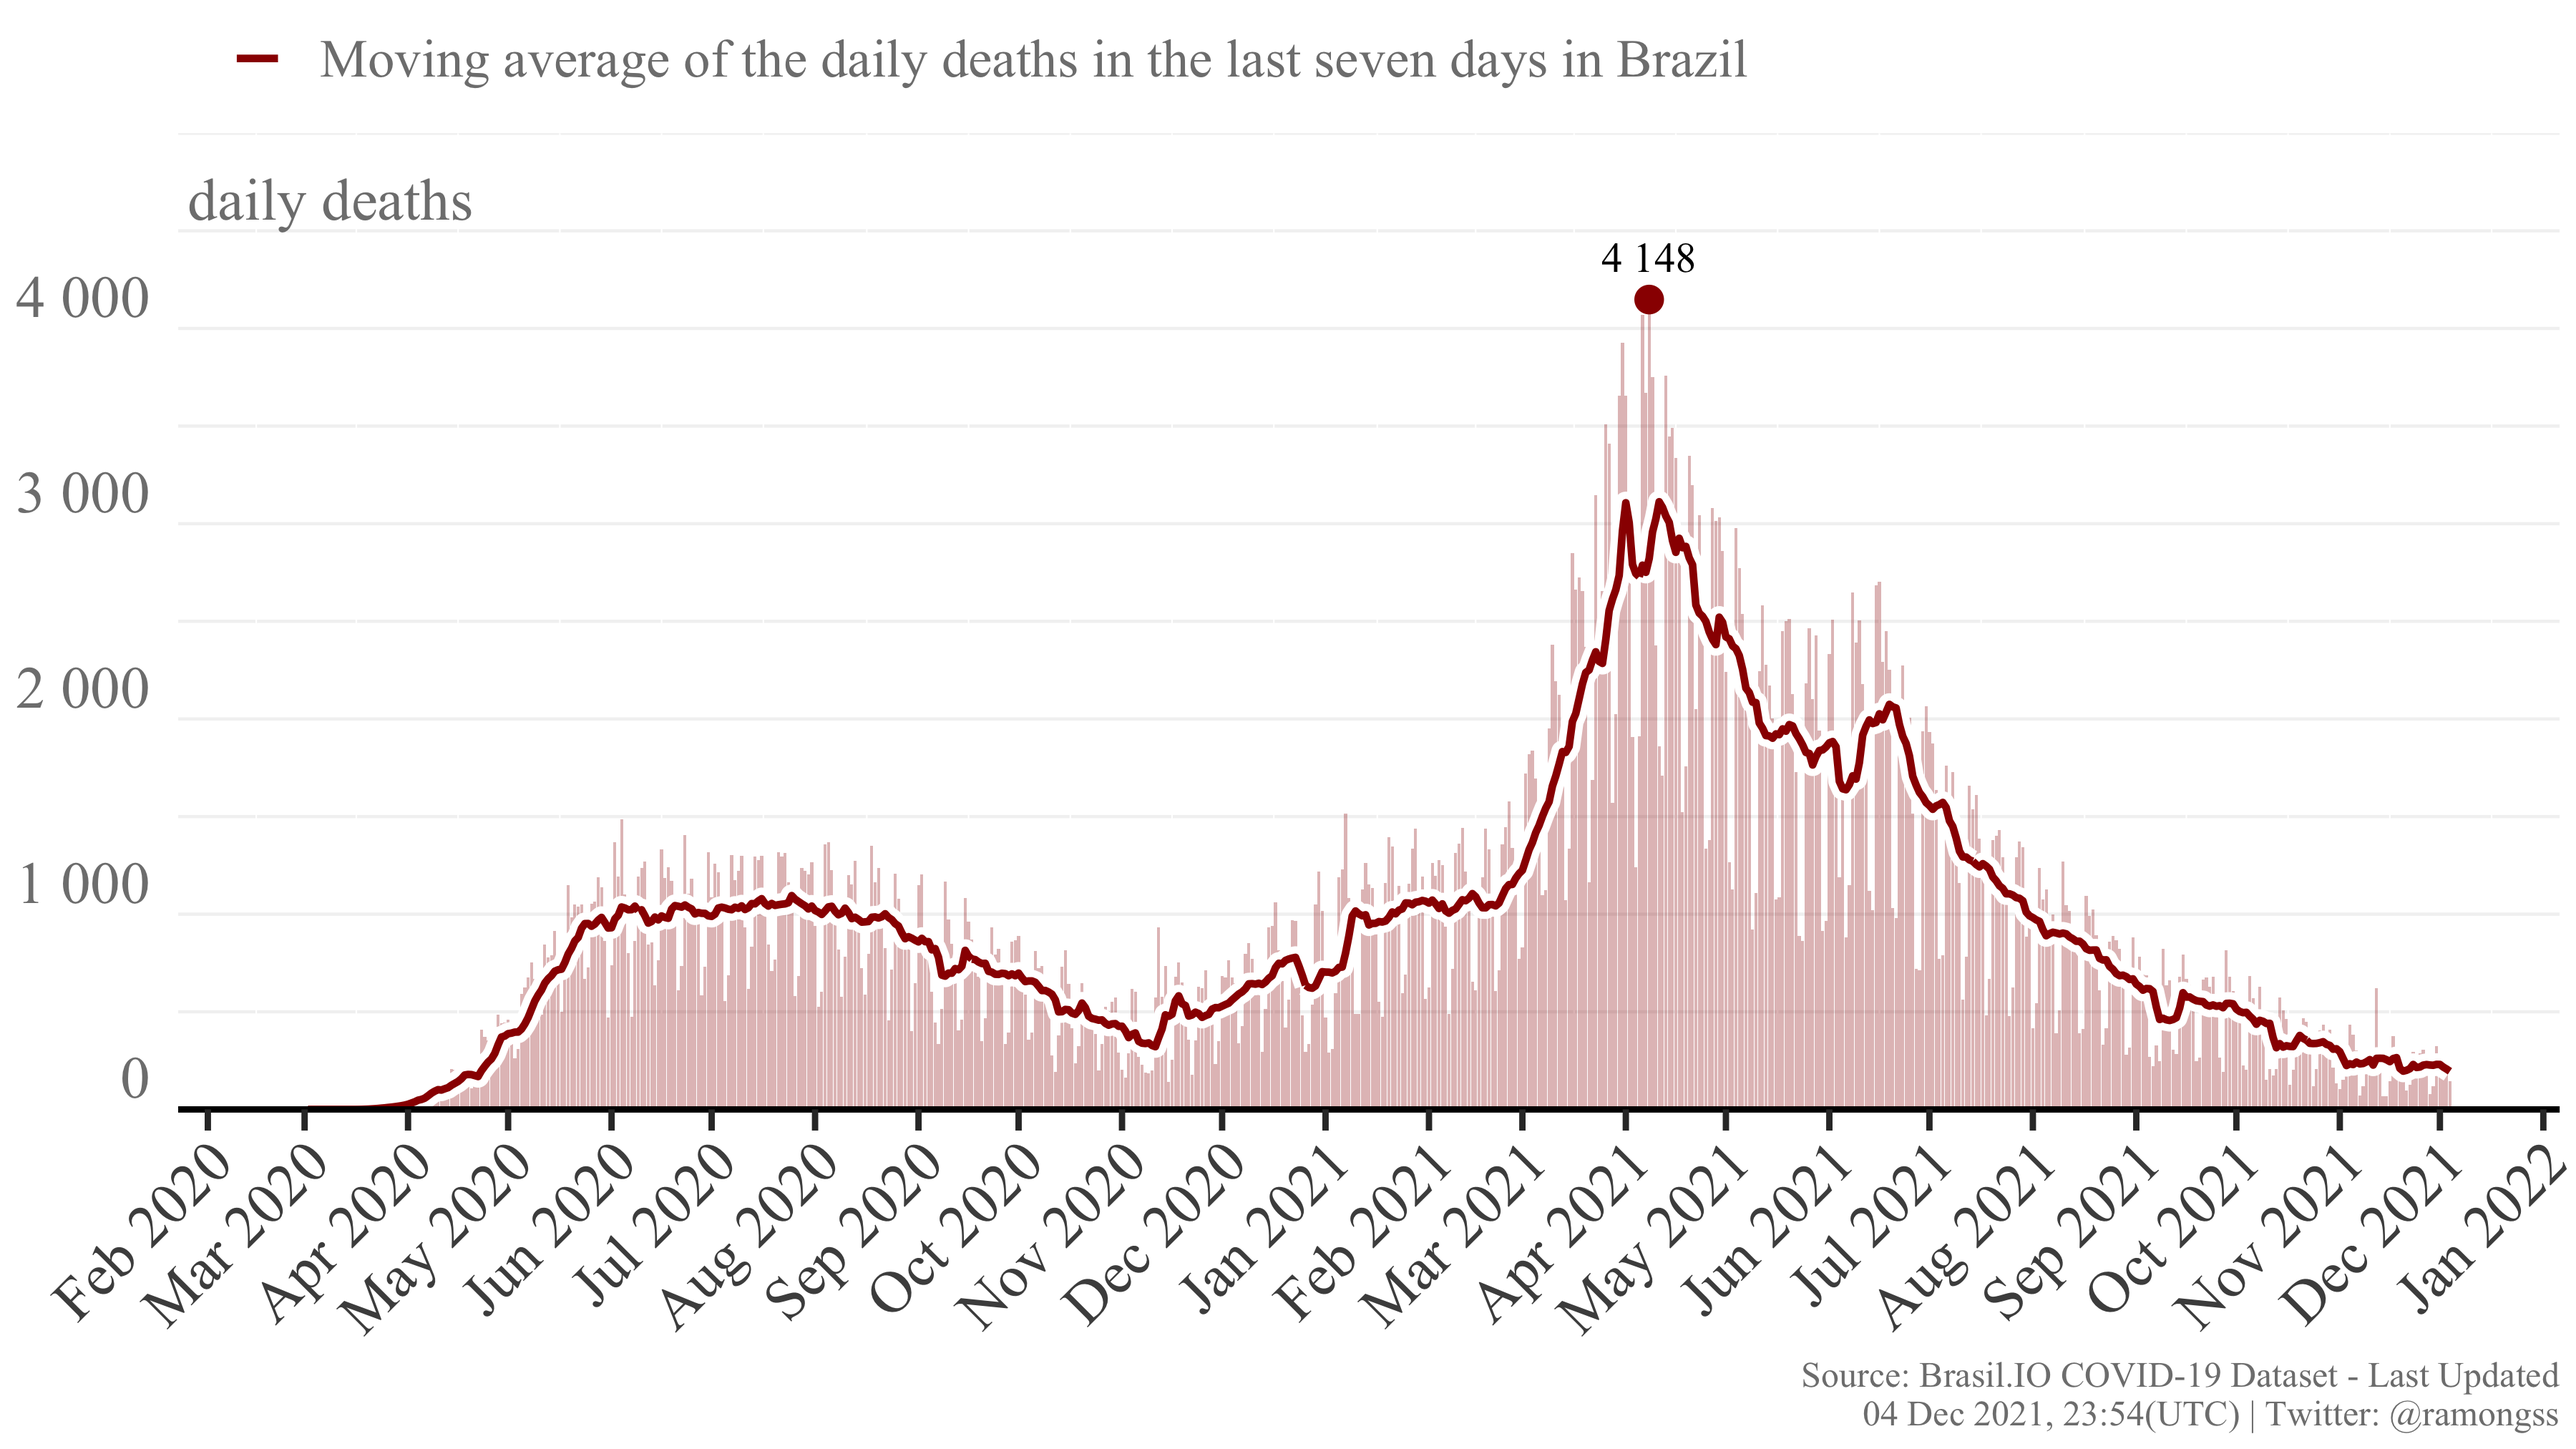
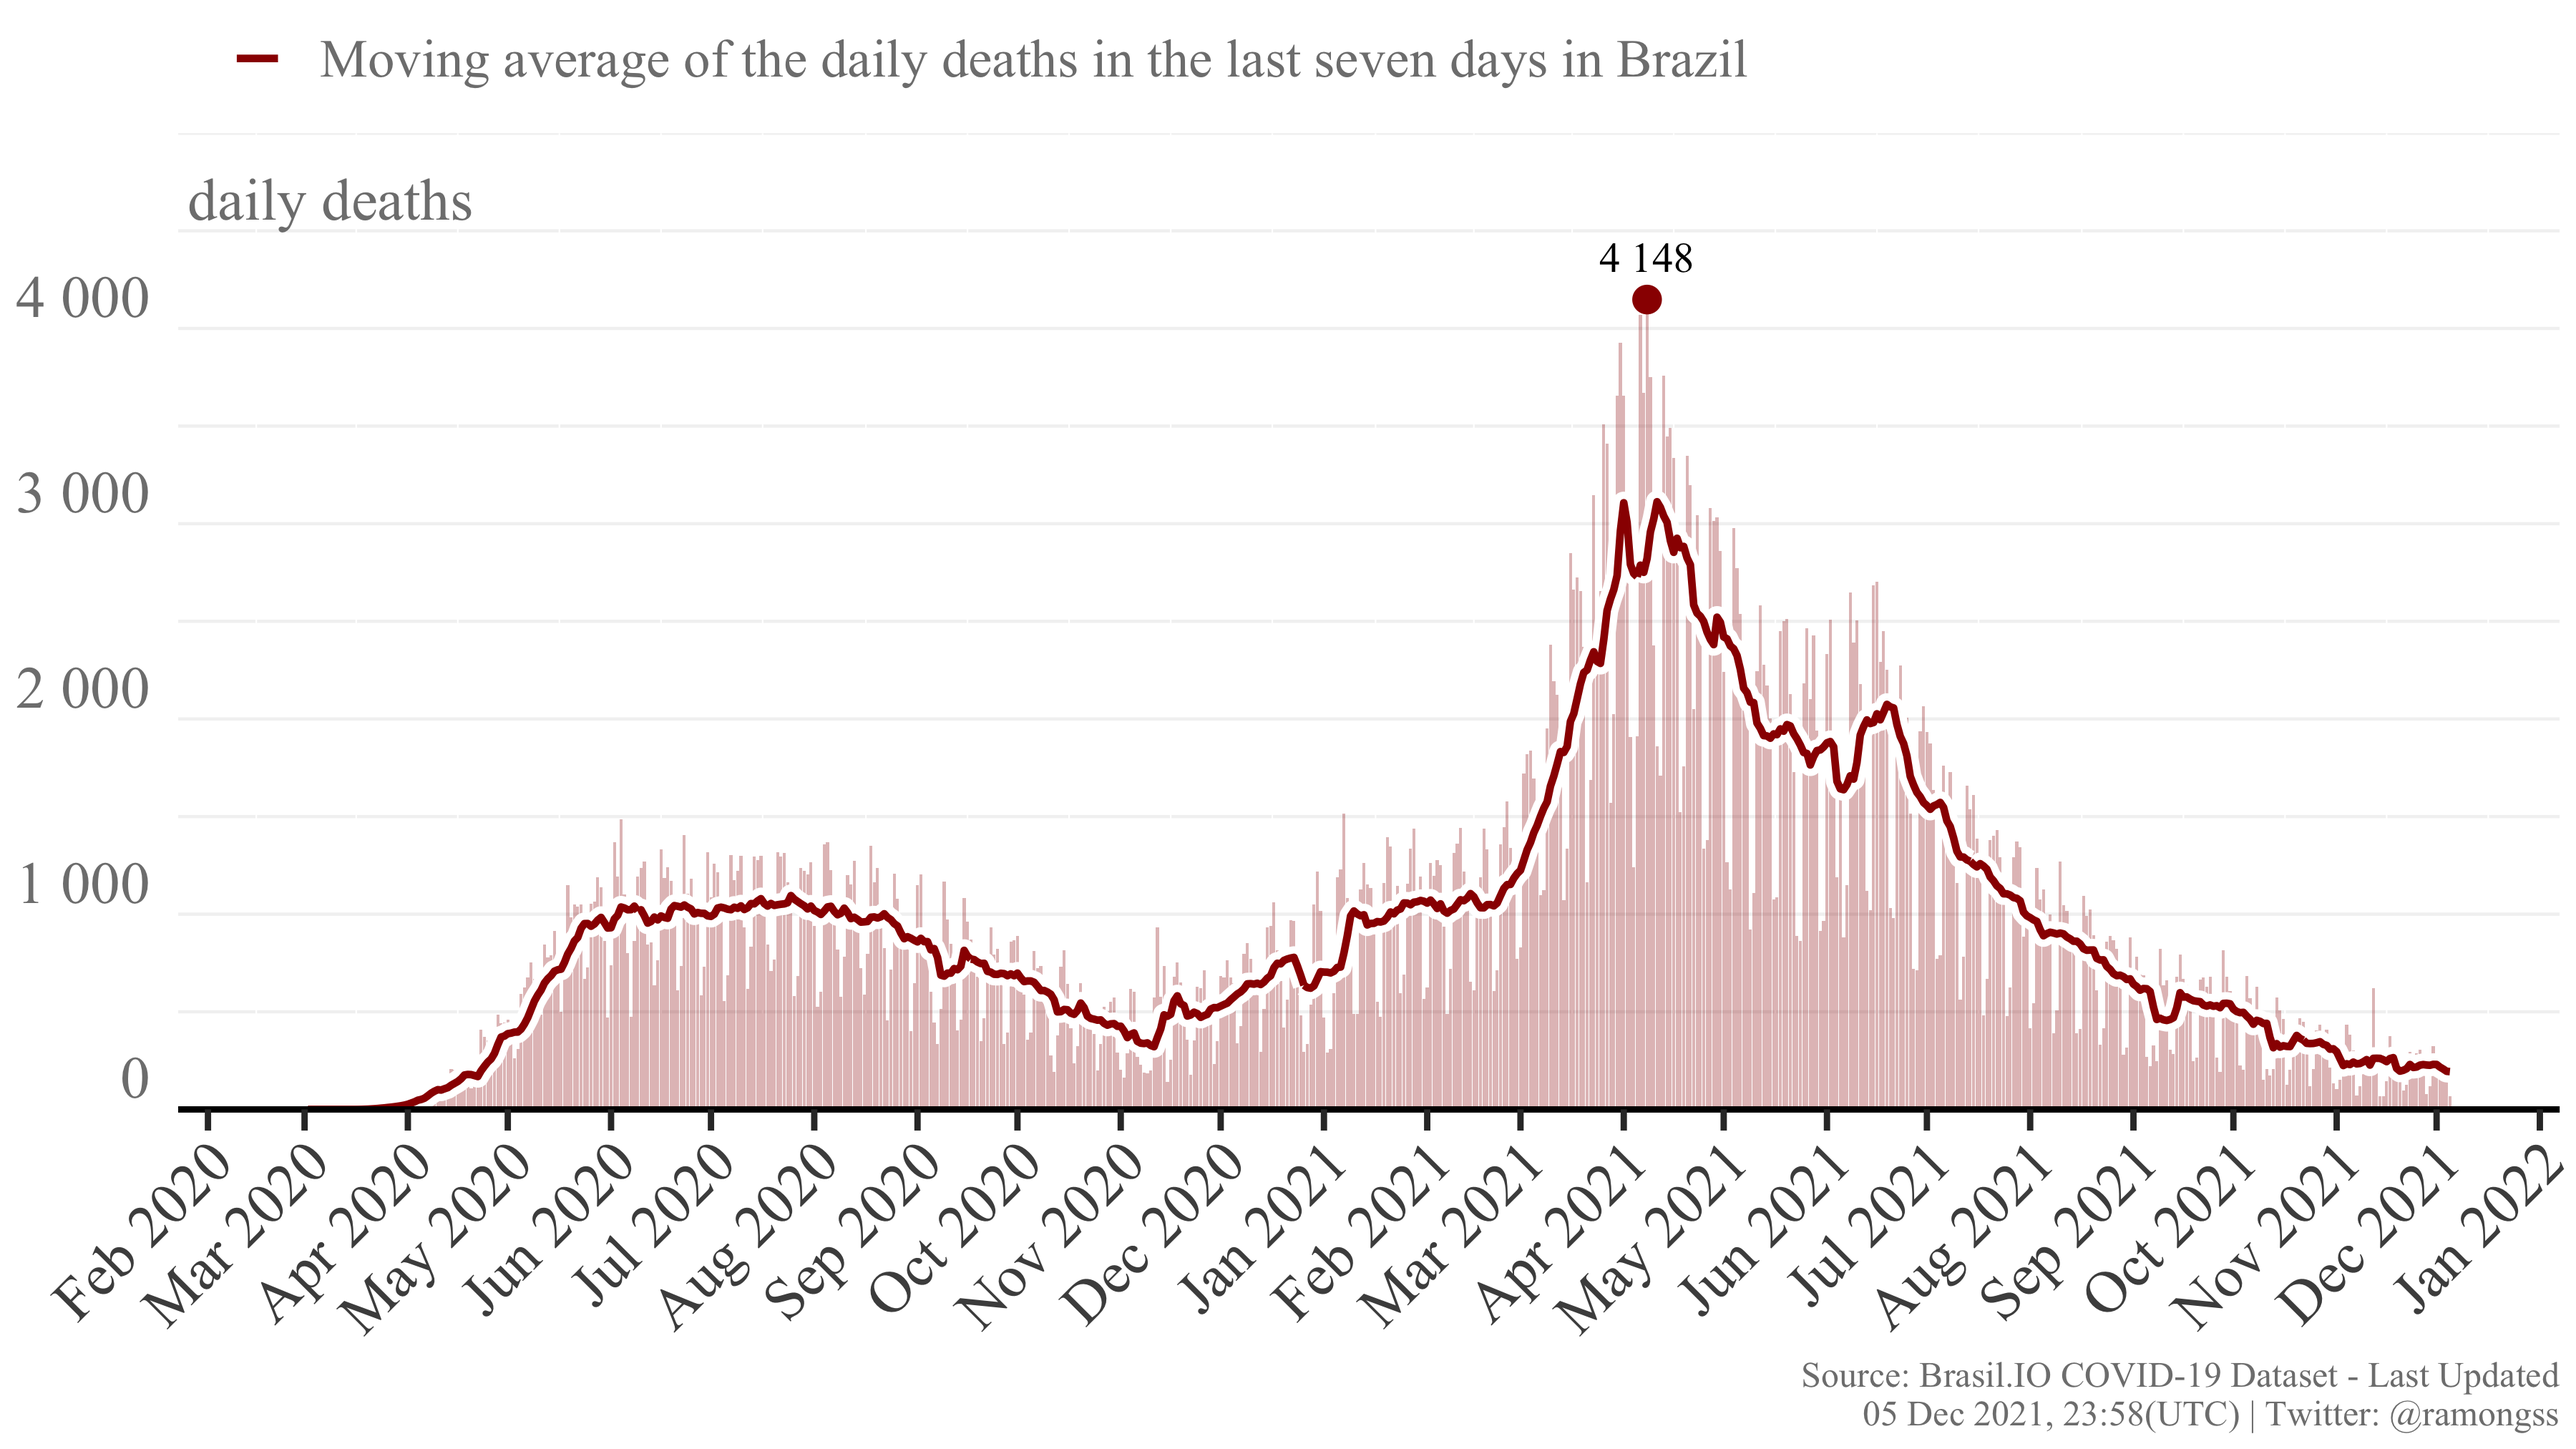
Re-build README.Rmd

diff --git a/README.md b/README.md
@@ -27,8 +27,8 @@ download_brasilio_table <- function(dataset = "covid19", table_name){
 
 ## COVID-19 Confirmed cases
 
-Currently, Brazil has a total of **22,142,132** confirmed cases at **04
-Dec, 2021**, with **7,154** new confirmed cases. The daily maximum
+Currently, Brazil has a total of **22,146,938** confirmed cases at **05
+Dec, 2021**, with **4,553** new confirmed cases. The daily maximum
 incidence was **124,878** confirmed cases at **18 Sep, 2021**. Here
 follows the Figure showing the confirmed case incidence as the bars, and
 the line as the moving average of the last 7 days.
@@ -37,11 +37,11 @@ the line as the moving average of the last 7 days.
 
 ## COVID-19 Deaths
 
-Currently, Brazil has a total of **615,828** deaths at **04 Dec, 2021**,
-with **146** new deaths. The daily maximum deaths incidence was
-**4,148** deaths at **08 Apr, 2021**. Here follows the Figure showing
-the deaths incidence as the bars, and the line as the moving average of
-the last 7 days.
+Currently, Brazil has a total of **615,897** deaths at **05 Dec, 2021**,
+with **68** new deaths. The daily maximum deaths incidence was **4,148**
+deaths at **08 Apr, 2021**. Here follows the Figure showing the deaths
+incidence as the bars, and the line as the moving average of the last 7
+days.
 
 ![COVID-19 Deaths](figures/deaths.png)
 
@@ -49,4 +49,4 @@ the last 7 days.
 
 This page is daily updated automatically using Github Actions.
 
-*Last update: 04 Dec 2021, 23:54 (UTC).*
+*Last update: 05 Dec 2021, 23:58 (UTC).*
